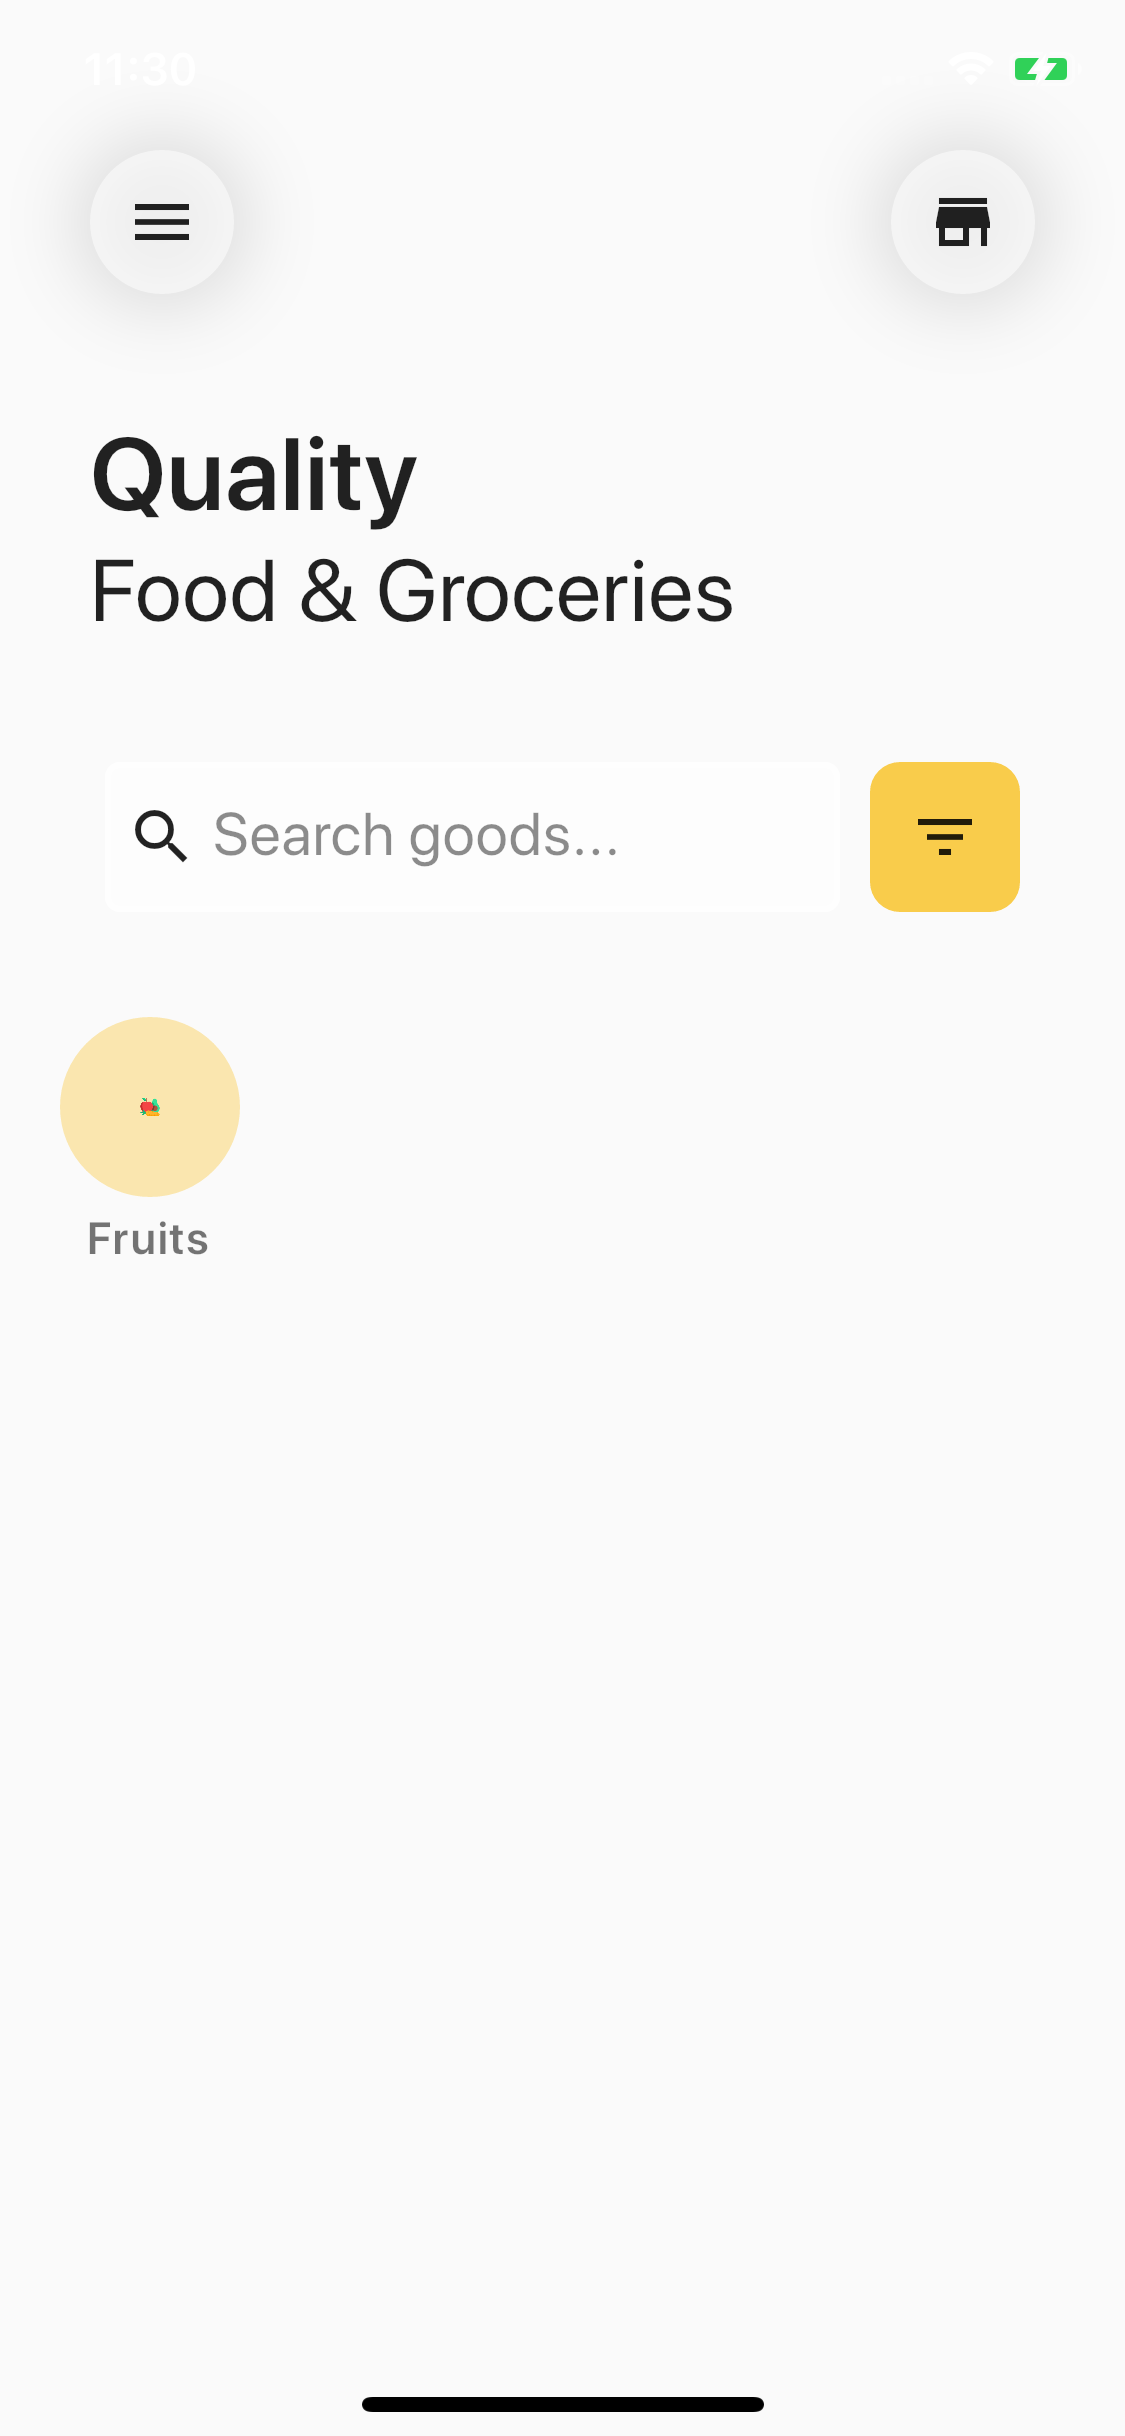
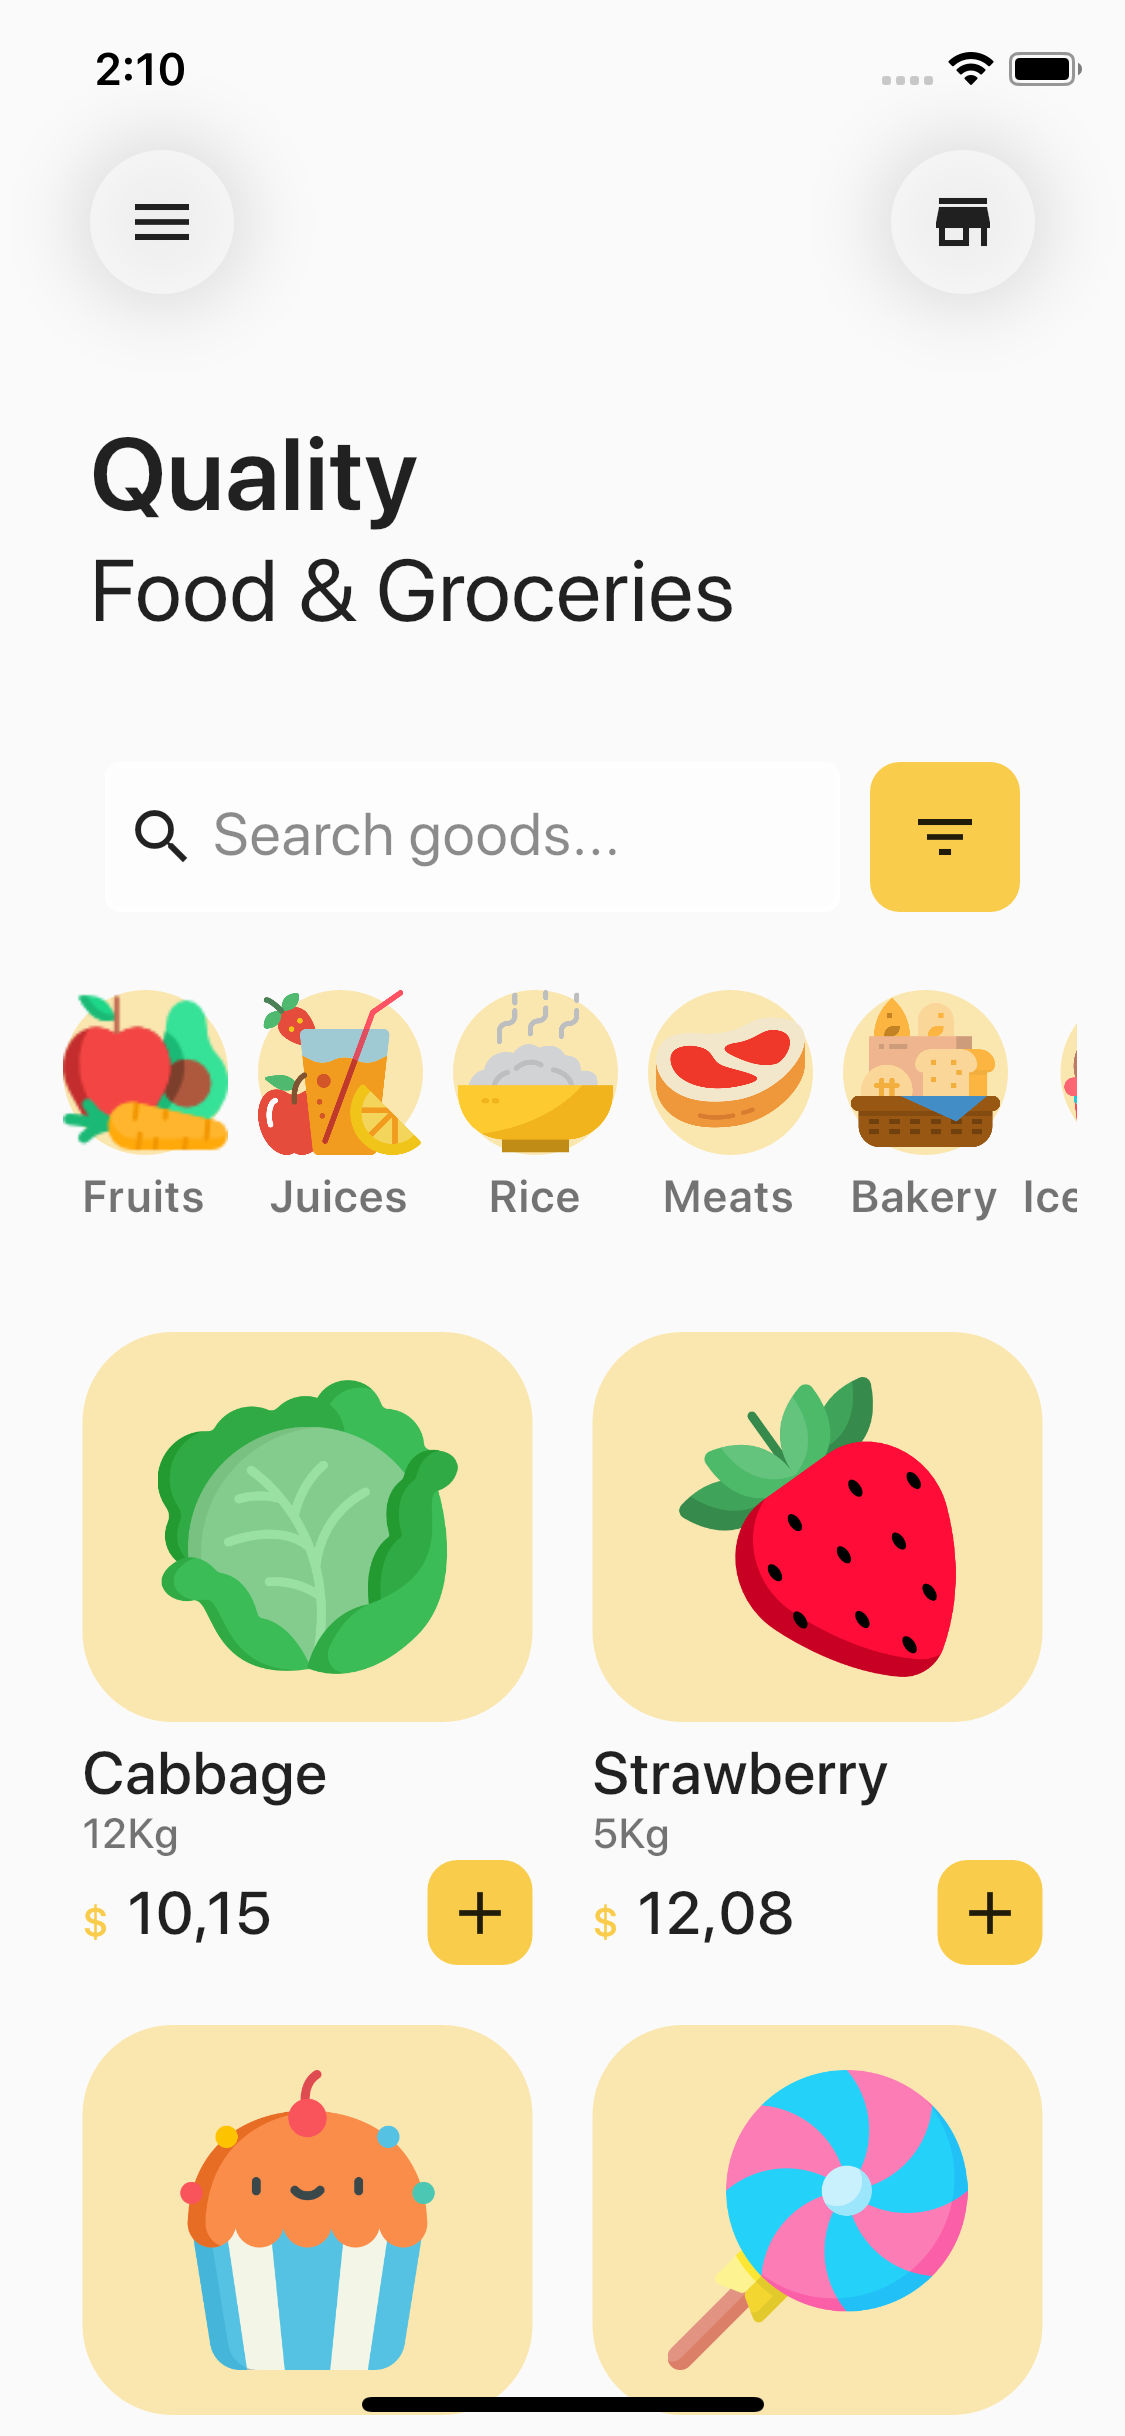
Finalizando tela inicial

diff --git a/lib/pages/products.page.dart b/lib/pages/products.page.dart
@@ -135,7 +135,7 @@ class ProductsPage extends StatelessWidget {
               ),
             ),
             SizedBox(
-              height: 25,
+              height: 15,
             ),
             Container(
               height: 100,
@@ -151,7 +151,54 @@ class ProductsPage extends StatelessWidget {
                   categoryItem("Ice Creams", "assets/ice-creams.png"),
                 ],
               ),
-            )
+            ),
+            SizedBox(
+              height: 15,
+            ),
+            Container(
+              width: double.infinity,
+              alignment: Alignment(0, 0),
+              child: Wrap(
+                crossAxisAlignment: WrapCrossAlignment.end,
+                children: <Widget>[
+                  productItem(
+                    context,
+                    "Cabbage",
+                    "assets/cabbage.png",
+                    "12Kg",
+                    "10,15",
+                  ),
+                  productItem(
+                    context,
+                    "Strawberry",
+                    "assets/strawberry.png",
+                    "5Kg",
+                    "12,08",
+                  ),
+                  productItem(
+                    context,
+                    "Cupcake",
+                    "assets/cupcake.png",
+                    "1Kg",
+                    "7,50",
+                  ),
+                  productItem(
+                    context,
+                    "Lollipop",
+                    "assets/lollipop.png",
+                    "2Kg",
+                    "5,99",
+                  ),
+                  productItem(
+                    context,
+                    "Donut",
+                    "assets/donut.png",
+                    "3Kg",
+                    "9,99",
+                  ),
+                ],
+              ),
+            ),
           ],
         ),
       ),
@@ -187,5 +234,85 @@ Widget categoryItem(String name, String imagePath) {
         ),
       ),
     ],
+  );
+}
+
+Widget productItem(BuildContext context, String name, String imagePath,
+    String weight, String price) {
+  return Container(
+    margin: EdgeInsets.all(10),
+    child: Column(
+      children: <Widget>[
+        Container(
+          padding: EdgeInsets.all(15),
+          decoration: BoxDecoration(
+            color: Color.fromARGB(110, 249, 204, 75),
+            borderRadius: BorderRadius.all(Radius.circular(30)),
+          ),
+          width: double.infinity,
+          height: 130,
+          child: Image.asset(
+            imagePath,
+            fit: BoxFit.contain,
+          ),
+        ),
+        SizedBox(
+          height: 5,
+        ),
+        Container(
+          alignment: Alignment(-1, 0),
+          child: Text(
+            name,
+            style: Theme.of(context).textTheme.title,
+          ),
+        ),
+        Container(
+          alignment: Alignment(-1, 0),
+          child: Text(
+            weight,
+            style: TextStyle(
+              fontSize: Theme.of(context).textTheme.subtitle.fontSize,
+              fontWeight: Theme.of(context).textTheme.subtitle.fontWeight,
+              color: Colors.black54,
+            ),
+          ),
+        ),
+        Row(
+          mainAxisAlignment: MainAxisAlignment.spaceBetween,
+          children: <Widget>[
+            Row(
+              crossAxisAlignment: CrossAxisAlignment.end,
+              children: <Widget>[
+                Text(
+                  "\$",
+                  style: TextStyle(
+                    fontSize: Theme.of(context).textTheme.subtitle.fontSize,
+                    fontWeight: Theme.of(context).textTheme.subtitle.fontWeight,
+                    color: Theme.of(context).primaryColor,
+                  ),
+                ),
+                Container(
+                  padding: EdgeInsets.only(left: 5),
+                  child: Text(
+                    price,
+                    style: Theme.of(context).textTheme.title,
+                  ),
+                ),
+              ],
+            ),
+            Container(
+              width: 35,
+              height: 35,
+              decoration: BoxDecoration(
+                color: Theme.of(context).primaryColor,
+                borderRadius: BorderRadius.all(Radius.circular(10)),
+              ),
+              child: Icon(Icons.add),
+            ),
+          ],
+        )
+      ],
+    ),
+    width: 150,
   );
 }

diff --git a/README.md b/README.md
@@ -1,10 +1,12 @@
 # Candy Shop
-
 Flutter application that represent a candy shop app. Just layout, no logic.
 
 ## Dê uma estrela! :star:
 Se você gostou do projeto ou se ele te ajudou, por favor dê uma estrela ;)
 
+<img alt="screenshot" src="images/screenshot.png" />
+
+**Dribbble utilizado**: [Grocery Store App](https://dribbble.com/shots/11157008-Grocery-Store-App)
 
 ## Autor 👦
 
